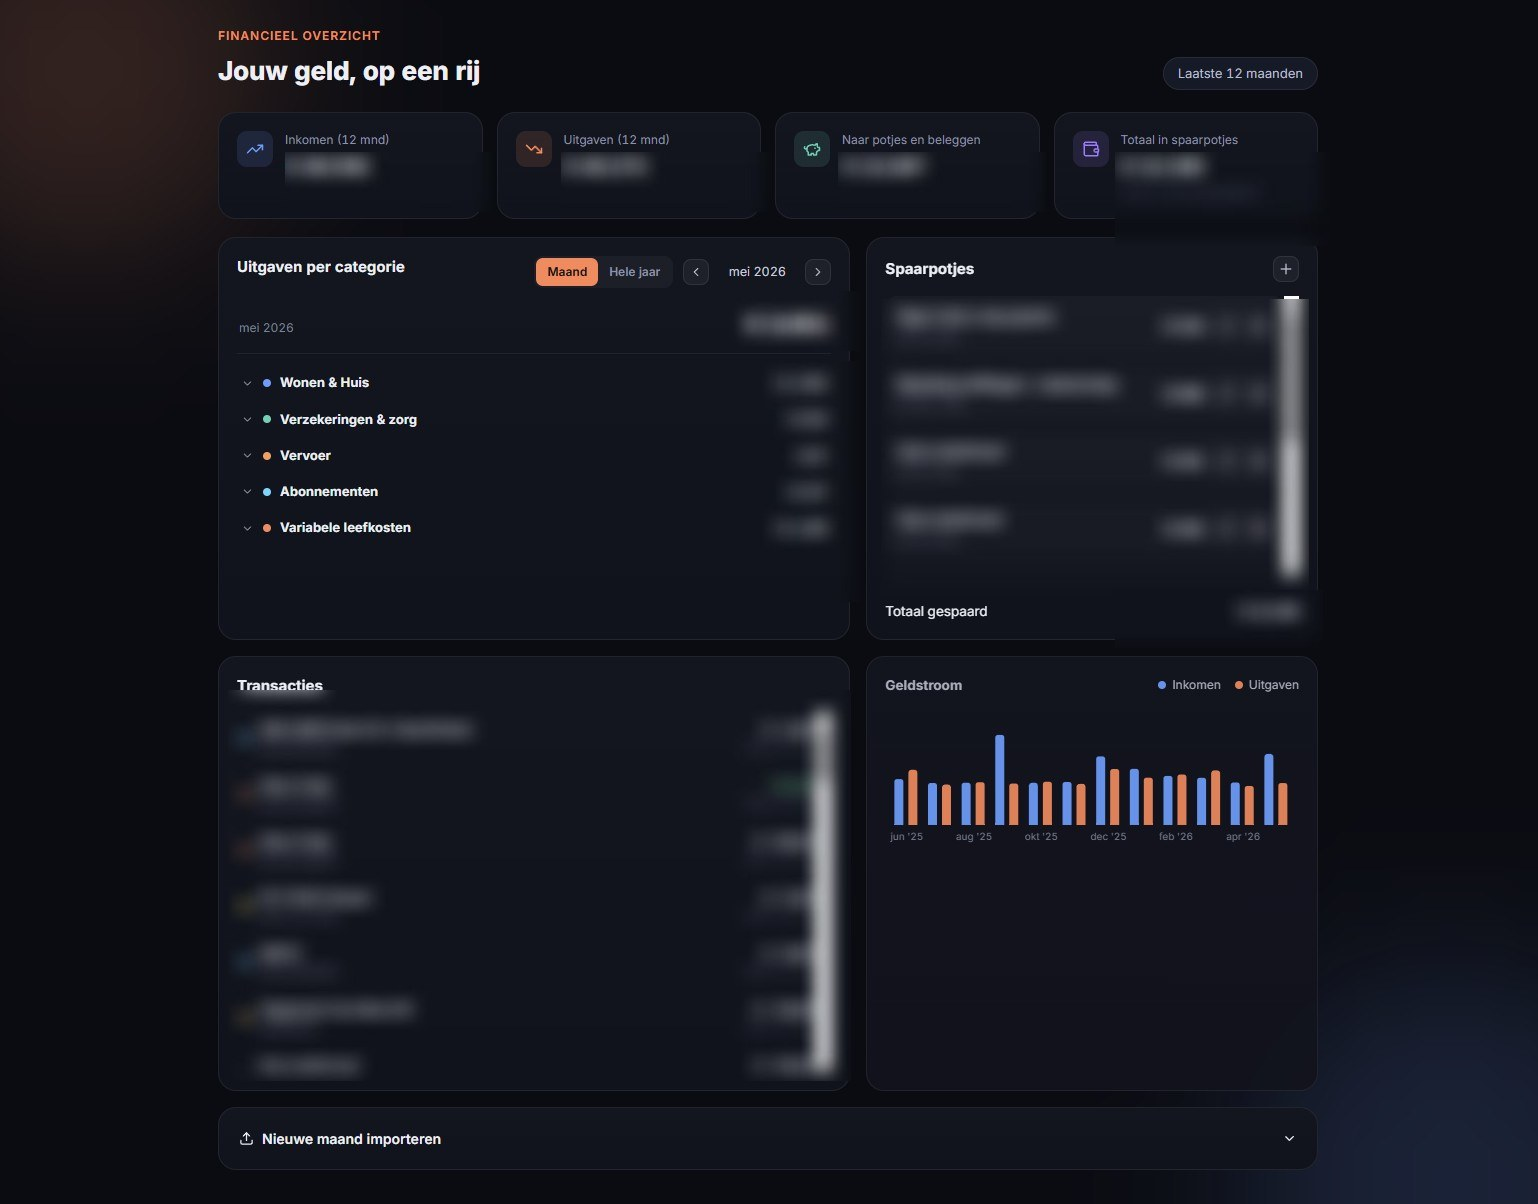
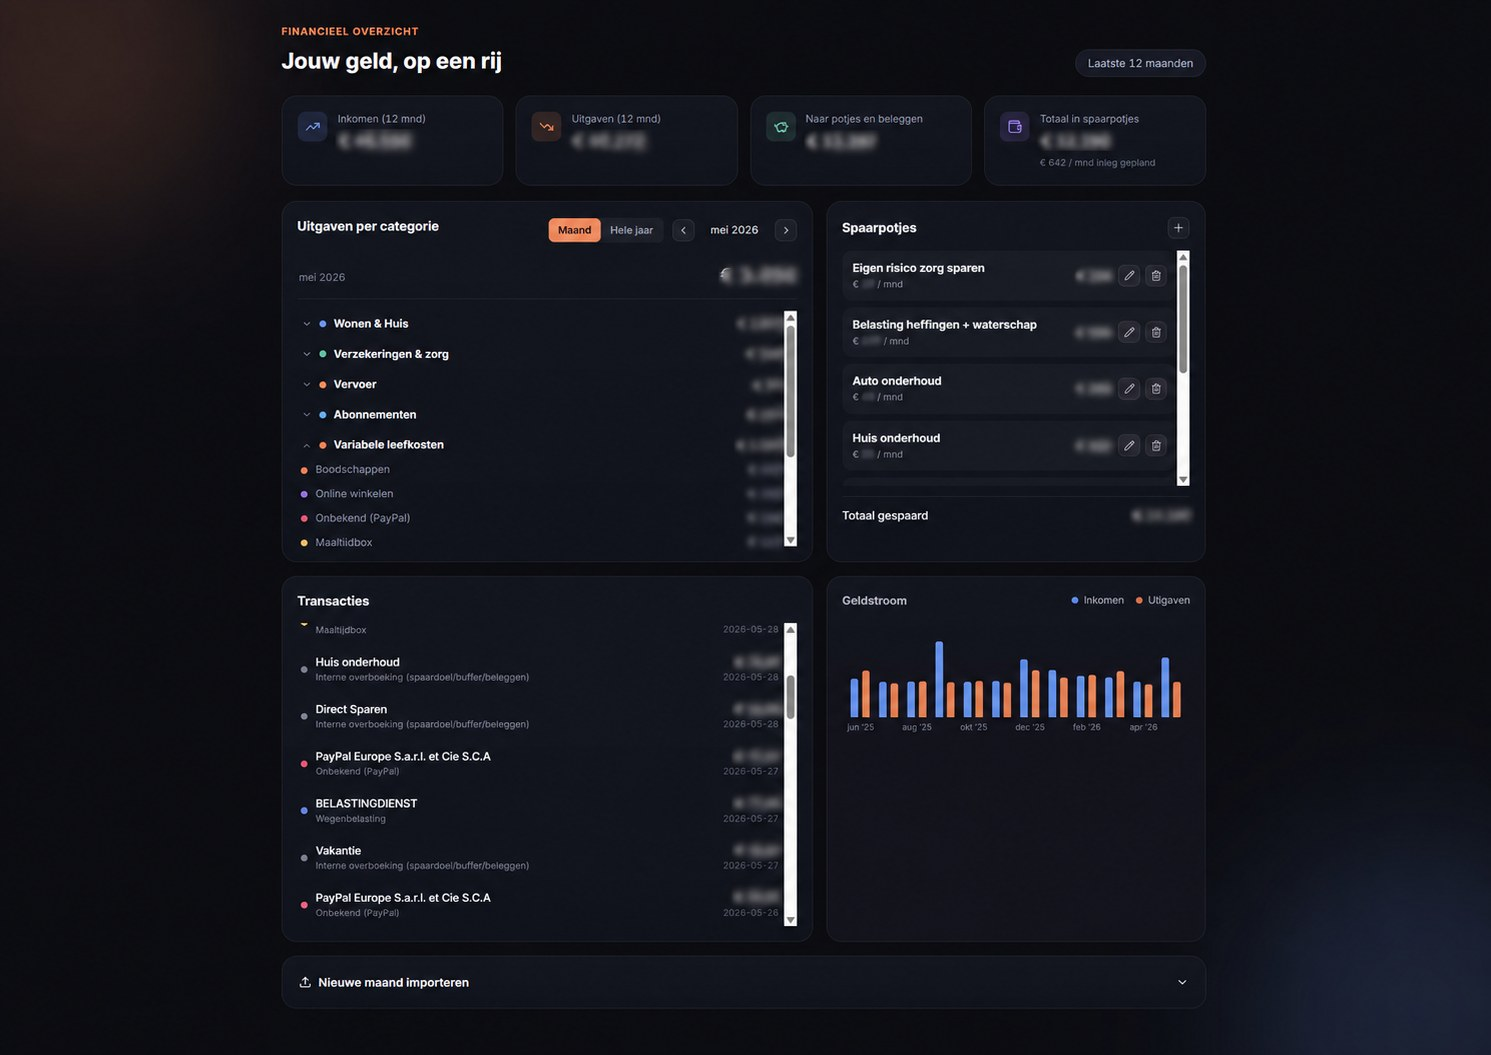
Feedback: AI-icoon i.p.v. palet, twee getekende pijltjes (naar hoofd + krul), skill-rings sectie, bredere projectbeelden, financieel V2, definitieve teksten bijgewerkt

diff --git a/app/page.tsx b/app/page.tsx
@@ -16,7 +16,7 @@ import {
   Monitor,
   Coffee,
   Paintbrush,
-  Palette,
+  BrainCircuit,
   Play,
 } from "lucide-react";
 
@@ -51,7 +51,7 @@ const projects: {
       { type: "video", src: "/projecten/urenregistratie-invoer.mp4", poster: "/projecten/urenregistratie-invoer-vid.jpg" },
       { type: "image", src: "/projecten/urenregistratie-invoer.jpg" },
     ],
-    body: "Handmatige tijdregistratie in het team was foutgevoelig en kostte tijd, en de leidinggevende had geen overzicht zonder alles handmatig samen te voegen en te rekenen. Ik bouwde een dashboard dat offline werkt, zonder installatie, met presets voor vaste terugkerende taken. Teamleden vullen met één druk op de knop hun uren in. De leidinggevende heeft nu één centraal dashboard met totaaloverzichten en grafieken. Het hele team gebruikt de tool inmiddels dagelijks.",
+    body: "Handmatige tijdregistratie in het team was foutgevoelig en kostte tijd. De leidinggevende moest alles zelf samenvoegen en uitrekenen om overzicht te krijgen. Ik bouwde een dashboard dat offline werkt, zonder installatie. Met presets voor vaste, terugkerende taken. Teamleden vullen met één druk op de knop hun uren in. De leidinggevende heeft nu één centraal dashboard met totaaloverzichten en grafieken. Het hele team gebruikt de tool inmiddels dagelijks.",
   },
   {
     id: "word-indesign",
@@ -62,7 +62,7 @@ const projects: {
       { type: "image", src: "/projecten/word-indesign.jpg" },
       { type: "image", src: "/projecten/word-indesign-2.jpg" },
     ],
-    body: "Tabellen uit Word overzetten naar InDesign-opmaak was tijdrovend handwerk, zeker bij lange documenten zoals reglementen met meerdere tabellen. Ik ontwikkelde een tool die Word-tabellen automatisch omzet naar kant-en-klare InDesign-scripts, inclusief herkenning van documenttype en opmaakstijl. Getest en toegepast op grote, complexe reglementendocumenten met meerdere tabellen per bestand.",
+    body: "Tabellen uit Word overzetten naar InDesign was tijdrovend handwerk. Zeker bij lange documenten met meerdere tabellen, zoals reglementen. Ik ontwikkelde een tool die Word-tabellen automatisch omzet naar kant-en-klare InDesign-scripts. Hij herkent daarbij het documenttype en de opmaakstijl. Getest en toegepast op grote, complexe reglementendocumenten met meerdere tabellen per bestand.",
   },
   {
     id: "financieel",
@@ -71,7 +71,7 @@ const projects: {
     tags: ["Dataverwerking", "Categorisatie", "Dashboard"],
     note: "Cijfers geblurd voor privacy",
     media: [{ type: "image", src: "/projecten/financieel.jpg" }],
-    body: "Ik wilde beter inzicht in mijn eigen uitgaven en spaargedrag dan wat een bankapp standaard biedt. Ik bouwde een dashboard dat een jaar aan transactiedata verwerkt, uitgaven automatisch categoriseert en spaarpotjes bewerkbaar maakt. Het resultaat is beter overzicht en betere financiële beslissingen.",
+    body: "Een bankapp geeft mij niet genoeg inzicht in mijn uitgaven en spaargedrag. Dus bouwde ik mijn eigen dashboard, dat een jaar aan transactiedata verwerkt. Het categoriseert uitgaven automatisch en maakt spaarpotjes bewerkbaar. Resultaat: beter overzicht en betere financiële beslissingen.",
   },
   {
     id: "maaltijden",
@@ -79,7 +79,7 @@ const projects: {
     title: "Maaltijden selectietool",
     tags: ["Python", "Browserautomatisering", "Voorkeurscoring"],
     media: [{ type: "video", src: "/projecten/maaltijden.mp4", poster: "/projecten/maaltijden.jpg" }],
-    body: "Elke week opnieuw maaltijden uitzoeken bij een online maaltijdservice kostte tijd en leverde niet altijd de beste match op. Ik bouwde een Python-tool die het hele proces automatiseert: via browserautomatisering leest een script alle beschikbare maaltijden uit, een eigen scoringslogica beoordeelt ze op persoonlijke voorkeuren, en de gekozen maaltijden worden automatisch klaargezet. Een zelfgebouwd dashboard maakt het geheel overzichtelijk bedienbaar.",
+    body: "Elke week opnieuw maaltijden uitzoeken bij een online maaltijdservice kostte tijd. En het leverde niet altijd de beste match op. Ik bouwde een Python-tool die het hele proces automatiseert. Een script leest via browserautomatisering alle beschikbare maaltijden uit. Een eigen scoringslogica beoordeelt ze op mijn voorkeuren. Daarna worden de gekozen maaltijden automatisch klaargezet. Een zelfgebouwd dashboard maakt het geheel overzichtelijk bedienbaar.",
   },
 ];
 
@@ -89,14 +89,14 @@ const cv = [
     role: "Grafisch Vormgever",
     period: "Juli 2021 – heden",
     org: "a.s.r. verzekeringen",
-    body: "Opmaak van complexe documenten binnen de a.s.r.-huisstijl: polisvoorwaarden, brochures, rapportages, PowerPoint-presentaties en invulbare pdf-formulieren. Daarnaast het initiatief genomen om terugkerende productieprocessen te automatiseren met zelfgebouwde tools, waardoor het team sneller en consistenter werkt.",
+    body: "Opmaak van complexe documenten binnen de a.s.r.-huisstijl: polisvoorwaarden, brochures, rapportages, PowerPoint-presentaties en invulbare pdf-formulieren. Daarnaast nam ik het initiatief om terugkerende productieprocessen te automatiseren met zelfgebouwde tools. Daardoor werkt het team sneller en consistenter.",
   },
   {
     icon: Briefcase,
     role: "DTP & Grafische vormgeving",
     period: "2012 – 2021",
     org: "o.a. FHC, Groupcard, Gemeente Leiden, Sanoma, HEMA",
-    body: "Ruim negen jaar ervaring opgebouwd in DTP en grafische vormgeving, aangevuld met een periode als zelfstandig vormgever. Van tijdschriftopmaak en huisstijlontwikkeling tot beleidsdocumenten: een brede basis in zowel print als digitaal.",
+    body: "Ruim negen jaar ervaring opgebouwd in DTP en grafische vormgeving. Aangevuld met een periode als zelfstandig vormgever. Van tijdschriftopmaak en huisstijlontwikkeling tot beleidsdocumenten: een brede basis in zowel print als digitaal.",
   },
   {
     icon: GraduationCap,
@@ -107,8 +107,17 @@ const cv = [
   },
 ];
 
+// Percentages zijn een eerste inschatting — pas ze gerust aan naar jouw gevoel
+const skills = [
+  { label: "Adobe InDesign", value: 95 },
+  { label: "Illustrator & Photoshop", value: 85 },
+  { label: "AI & Automatisering", value: 80 },
+  { label: "JavaScript & Python", value: 70 },
+];
+
 const navLinks = [
   { label: "Over mij", href: "#over-mij" },
+  { label: "Vaardigheden", href: "#vaardigheden" },
   { label: "Projecten", href: "#projecten" },
   { label: "CV", href: "#cv" },
   { label: "Contact", href: "#contact" },
@@ -164,6 +173,83 @@ function Typewriter() {
 
 function BgIcon({ icon: Icon, className, size = 62 }: { icon: typeof Monitor; className: string; size?: number }) {
   return <Icon className={`absolute z-0 text-white/[0.09] ${className}`} size={size} strokeWidth={1} />;
+}
+
+// Lijntje/pijltje dat zichzelf "tekent" wanneer het in beeld komt
+function DrawnArrow({
+  className,
+  viewBox,
+  d,
+  head,
+  delay = 0,
+}: {
+  className: string;
+  viewBox: string;
+  d: string;
+  head: string;
+  delay?: number;
+}) {
+  return (
+    <svg className={className} viewBox={viewBox} fill="none" aria-hidden>
+      <motion.path
+        d={d}
+        stroke="currentColor"
+        strokeWidth={2.4}
+        strokeLinecap="round"
+        strokeLinejoin="round"
+        initial={{ pathLength: 0, opacity: 0 }}
+        whileInView={{ pathLength: 1, opacity: 1 }}
+        viewport={{ once: true }}
+        transition={{ duration: 1.1, delay, ease: "easeInOut" }}
+      />
+      <motion.path
+        d={head}
+        stroke="currentColor"
+        strokeWidth={2.4}
+        strokeLinecap="round"
+        strokeLinejoin="round"
+        initial={{ pathLength: 0, opacity: 0 }}
+        whileInView={{ pathLength: 1, opacity: 1 }}
+        viewport={{ once: true }}
+        transition={{ duration: 0.35, delay: delay + 1.0, ease: "easeOut" }}
+      />
+    </svg>
+  );
+}
+
+function SkillRing({ label, value, delay = 0 }: { label: string; value: number; delay?: number }) {
+  const r = 52;
+  const c = 2 * Math.PI * r;
+  return (
+    <div className="flex flex-col items-center">
+      <div className="relative w-28 h-28 sm:w-32 sm:h-32">
+        <svg className="w-full h-full -rotate-90" viewBox="0 0 120 120">
+          <circle cx="60" cy="60" r={r} stroke="rgba(255,255,255,0.08)" strokeWidth="8" fill="none" />
+          <motion.circle
+            cx="60"
+            cy="60"
+            r={r}
+            stroke="#7C3AED"
+            strokeWidth="8"
+            fill="none"
+            strokeLinecap="round"
+            strokeDasharray={c}
+            initial={{ strokeDashoffset: c }}
+            whileInView={{ strokeDashoffset: c * (1 - value / 100) }}
+            viewport={{ once: true }}
+            transition={{ duration: 1.3, delay, ease: "easeOut" }}
+          />
+        </svg>
+        <div className="absolute inset-0 flex items-center justify-center">
+          <span className="text-2xl font-extrabold">
+            {value}
+            <span className="text-sm text-[#9AA4B2]">%</span>
+          </span>
+        </div>
+      </div>
+      <p className="mt-4 text-xs sm:text-sm font-semibold uppercase tracking-wide text-[#C7CEDB] text-center">{label}</p>
+    </div>
+  );
 }
 
 // ─── Nav ─────────────────────────────────────────────────────────────────────
@@ -251,25 +337,27 @@ function Hero() {
 
             {/* Speels verspreide, kale achtergrond-icoontjes, ver uiteen */}
             <BgIcon icon={Monitor} size={70} className="top-2 -left-16 sm:-left-32" />
-            <BgIcon icon={Palette} size={64} className="-top-6 right-6 sm:right-16" />
+            <BgIcon icon={BrainCircuit} size={64} className="-top-6 right-6 sm:right-16" />
             <BgIcon icon={Coffee} size={72} className="bottom-6 -left-12 sm:-left-24" />
             <BgIcon icon={Paintbrush} size={66} className="-bottom-2 -right-4 sm:-right-14" />
 
-            {/* Krullend lijntje naar Marjolijn toe */}
-            <svg
-              className="absolute bottom-24 -left-6 sm:-left-16 w-24 h-20 text-[#A78BFA]/30 z-0 pointer-events-none"
-              viewBox="0 0 120 100"
-              fill="none"
-            >
-              <path
-                d="M6 92 C 34 96, 30 60, 54 54 C 74 49, 70 22, 96 20"
-                stroke="currentColor"
-                strokeWidth="2"
-                strokeLinecap="round"
-                strokeDasharray="1 8"
-              />
-              <path d="M88 12 L100 18 L92 29" stroke="currentColor" strokeWidth="2" strokeLinecap="round" strokeLinejoin="round" />
-            </svg>
+            {/* Pijltje van bovenaf naar het hoofd (tekent zichzelf) */}
+            <DrawnArrow
+              className="absolute -top-6 -left-2 sm:left-2 w-32 h-20 text-[#A78BFA]/70 z-20 pointer-events-none"
+              viewBox="0 0 160 90"
+              d="M10 14 C 58 2, 108 8, 132 56"
+              head="M116 50 L135 60 L122 34"
+              delay={0.3}
+            />
+
+            {/* Krullend lijntje van onderaf naar Marjolijn (tekent zichzelf) */}
+            <DrawnArrow
+              className="absolute bottom-20 -left-5 sm:-left-14 w-24 h-24 text-[#A78BFA]/55 z-20 pointer-events-none"
+              viewBox="0 0 110 110"
+              d="M8 98 C 46 106, 18 58, 52 52 C 74 48, 66 24, 92 22"
+              head="M79 18 L95 20 L86 34"
+              delay={0.6}
+            />
 
             {/* Foto, zonder kader, randen vervagen zacht in de achtergrond (radiaal) */}
             <Image
@@ -307,20 +395,42 @@ function About() {
           <Reveal delay={0.1}>
             <div className="space-y-5 text-[#C7CEDB] text-base sm:text-lg leading-relaxed">
               <p>
-                Ik ben Marjolijn de Vries, grafisch vormgever bij a.s.r. verzekeringen. Sinds 2012
-                werk ik in DTP en grafische vormgeving, de laatste jaren binnen Corporate Communicatie.
-                Daar maak ik complexe documenten op binnen de huisstijl: polisvoorwaarden, brochures,
-                rapportages en formulieren.
+                Ik ben Marjolijn, grafisch vormgever bij a.s.r. verzekeringen. Sinds 2012 werk ik in
+                DTP en grafische vormgeving. Nu doe ik dat binnen het in-house designteam van Corporate
+                Communicatie, met zeven vormgevers. Daar maak ik complexe documenten op binnen de
+                huisstijl: polisvoorwaarden, brochures, rapportages en formulieren.
               </p>
               <p>
                 Naast dat vormgevingswerk ben ik zelf gaan bouwen. Repeterende taken in mijn team
-                kostten onnodig veel tijd, dus ontwikkelde ik browser-based tools die dat werk
-                automatiseren. Zo bouwde ik een urenregistratiesysteem dat het hele team dagelijks
-                gebruikt, en een script dat Word-tabellen automatisch omzet naar InDesign-opmaak.
-                Geen kant-en-klare software, maar zelf gebouwd en getest op echte documenten uit mijn werk.
+                kostten onnodig veel tijd. Dus loste ik dat zelf op. Ik bouwde browser-based tools die
+                dat werk automatiseren. Een urenregistratiesysteem dat het hele team dagelijks gebruikt.
+                En een script dat Word-tabellen omzet naar InDesign-opmaak. Geen kant-en-klare software,
+                gewoon zelf gebouwd en getest op echte documenten uit mijn werk.
               </p>
             </div>
           </Reveal>
+        </div>
+      </div>
+    </section>
+  );
+}
+
+// ─── Vaardigheden ────────────────────────────────────────────────────────────
+
+function Skills() {
+  return (
+    <section id="vaardigheden" className="py-24 px-6 border-t border-white/5">
+      <div className="max-w-6xl mx-auto">
+        <div className="max-w-3xl">
+          <Reveal>
+            <p className="text-xs uppercase tracking-[0.2em] text-[#A78BFA] font-semibold mb-4">Vaardigheden</p>
+            <h2 className="text-3xl sm:text-4xl font-bold tracking-tight mb-4">Waar ik sterk in ben.</h2>
+          </Reveal>
+        </div>
+        <div className="grid grid-cols-2 md:grid-cols-4 gap-x-6 gap-y-12 mt-14">
+          {skills.map((s, i) => (
+            <SkillRing key={s.label} label={s.label} value={s.value} delay={i * 0.12} />
+          ))}
         </div>
       </div>
     </section>
@@ -395,7 +505,11 @@ function ProjectRow({ project, index }: { project: (typeof projects)[number]; in
   const Icon = project.icon;
   return (
     <Reveal>
-      <div className="grid md:grid-cols-2 gap-8 lg:gap-14 items-center">
+      <div
+        className={`grid ${
+          reversed ? "md:grid-cols-[1fr_1.25fr]" : "md:grid-cols-[1.25fr_1fr]"
+        } gap-8 lg:gap-14 items-center`}
+      >
         <div className={reversed ? "md:order-2" : ""}>
           <ProjectMedia project={project} />
         </div>
@@ -426,7 +540,7 @@ function Projects() {
           <p className="text-xs uppercase tracking-[0.2em] text-[#A78BFA] font-semibold mb-4">Projecten</p>
           <h2 className="text-3xl sm:text-4xl font-bold tracking-tight mb-4">Zelfgebouwde tools.</h2>
           <p className="text-[#9AA4B2] max-w-2xl mb-16">
-            Elk project ontstond uit een echt probleem in mijn werk of dagelijks leven.
+            Elk project lost een probleem op dat ik zelf tegenkwam, op werk of thuis.
           </p>
         </Reveal>
         <div className="space-y-20 lg:space-y-28">
@@ -567,6 +681,7 @@ export default function Home() {
       <main>
         <Hero />
         <About />
+        <Skills />
         <Projects />
         <CV />
         <Contact />
